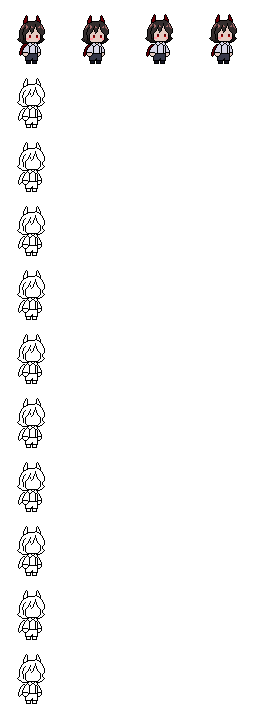
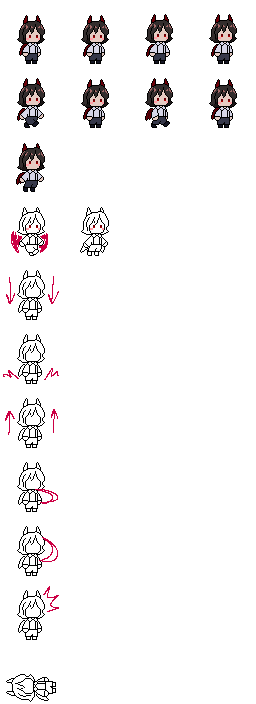
commit 5
Constants class becomes enum, more Player animations

diff --git a/src/entities/Player.java b/src/entities/Player.java
@@ -5,17 +5,27 @@ import java.awt.image.BufferedImage;
 
 import main.Game;
 import helper.ResourceLoader;
+import gamestates.Playing;
+import helper.Constants.PlayerState;
 import static main.Game.SCALE;
 import static collision.CollisionChecker.isSolid;
-import gamestates.Playing;
+import static helper.Constants.PlayerState.*;
 
 public class Player extends Entity {
 	private Playing playing;
 	private BufferedImage[][] sprites;
-	private String playerPng = ResourceLoader.PLAYER_SPRITES;
+	private final String playerPng = ResourceLoader.PLAYER_SPRITES;
+	private final int pngRow = 11;
+	private final int pngCol = 4;
+	private PlayerState playerAction;
+	private int aniTick;
+	private int aniIndex;
+	private final int aniSpeed = 15;
+	private boolean facingLeft = false;
+	
 	private static final int WIDTH = (int)(16*Game.SCALE);
 	private static final int HEIGHT = (int)(36*Game.SCALE);
-	private static final float OFFSET_X = 23 * Game.SCALE;
+	private static final float OFFSET_X = 24 * Game.SCALE;
 	private static final float OFFSET_Y = 27 * Game.SCALE;
 	
 	private boolean moving = false;
@@ -24,31 +34,99 @@ public class Player extends Entity {
 	private boolean up;
 	private boolean down;
 	private boolean jump;
-	private float playerSpeed = 1.5f * SCALE;
+	private final float playerSpeed = 1.5f * SCALE;
 	
 	private boolean inAir = false;
 	private int jumpCount = 0;
-	private int maxJump = 2;
+	private final int maxJump = 2;
 	private boolean climbable = false;
-	private float gravity = 0.05f * SCALE;
+	private final float gravity = 0.05f * SCALE;
 	private float airSpeed = 0f;
-	private float jumpSpeed = -2.3f * SCALE;
-	private float fallSpeed = 0.5f * SCALE;
+	private final float jumpSpeed = -2.3f * SCALE;
+	private final float fallSpeed = 0.5f * SCALE;
 
 	public Player(Playing playing, float x, float y) {
 		super(x, y, WIDTH, HEIGHT, OFFSET_X, OFFSET_Y);
 		this.playing = playing;
+		this.playerAction = IDLE;
 		loadAnimations();
+	}
+
+	private void loadAnimations() {
+		BufferedImage img = ResourceLoader.ImagesLoader(playerPng);
+
+		sprites = new BufferedImage[pngRow][pngCol];
+		for(int i = 0; i < pngRow; i++) {
+			for(int j = 0; j < pngCol; j++) {
+				sprites[i][j] = img.getSubimage(j*64, i*64, 64, 64);
+			}
+		}
+	}
+	
+	private void updateAnimationTick() {
+		aniTick++;
+		if (aniTick >= aniSpeed) {
+			aniTick = 0;
+
+			if (playerAction.isLooping()) {
+				aniIndex++;
+				if (aniIndex >= playerAction.getAnimationAmount()) {
+					aniIndex = 0;
+				}
+			} else {
+				if (aniIndex < playerAction.getAnimationAmount() - 1) {
+					aniIndex++;
+				}
+			}
+		}
+	}
+	
+	private void setAnimation(PlayerState newAction) {
+		if (this.playerAction.getId() != newAction.getId()) {
+			this.playerAction = newAction;
+			this.aniTick = 0;
+			this.aniIndex = 0;
+		}
+	}
+	
+	private void updatePlayerAction() {
+		if (inAir) {
+			if (airSpeed < 0) {
+				if (jumpCount < 2) {
+					setAnimation(JUMPING);
+				} else {
+					setAnimation(JUMPING2);
+				}
+			} else {
+				setAnimation(FALLING);
+			}
+		} else if (moving) {
+			setAnimation(RUNNING);
+		} else {
+			setAnimation(IDLE);
+		}
 	}
 
 	public void update() {
 		updatePosition();
 		updateHitbox();
+		updateAnimationTick();
+		updatePlayerAction();
 	}
 
 	public void draw(Graphics2D g2) {
-		g2.drawImage(sprites[0][0], (int)x, (int)y, (int)(64*SCALE), (int)(64*SCALE), null);
-		drawHitbox(g2);
+		int drawX = (int) x;
+		int drawY = (int) y;
+		int drawWidth = (int) (64 * SCALE);
+		int drawHeight = (int) (64 * SCALE);
+		if (facingLeft) {
+			g2.drawImage(sprites[playerAction.getId()][aniIndex], drawX+drawWidth, drawY,
+					-drawWidth, drawHeight, null);
+		} else {
+			g2.drawImage(sprites[playerAction.getId()][aniIndex], drawX, drawY,
+					drawWidth, drawHeight, null);
+		}
+//		drawHitbox(g2);
 	}
 
 	private void updatePosition() {
@@ -57,8 +135,14 @@ public class Player extends Entity {
 		float xSpeed = 0;
 		
 		if (jump) jump();
-		if (left) xSpeed -= playerSpeed;
-		if (right) xSpeed += playerSpeed;
+		if (left) {
+			xSpeed -= playerSpeed;
+			facingLeft = true;
+		}
+		if (right) {
+			xSpeed += playerSpeed;
+			facingLeft = false;
+		}
 		
 		if (!inAir) {
             if (!isSolid(hitbox, x, y + 1, playing.getCollisionData(), playing.getLevelWidth(), playing.getLevelHeight())) {
@@ -127,17 +211,6 @@ public class Player extends Entity {
 //			moving = true;
 //		}
 //	}
-
-	private void loadAnimations() {
-		BufferedImage img = ResourceLoader.ImagesLoader(playerPng);
-
-		sprites = new BufferedImage[4][4];
-		for(int i = 0; i < sprites.length; i++) {
-			for(int j = 0; j < sprites[i].length; j++) {
-				sprites[i][j] = img.getSubimage(j*64, i*64, 64, 64);
-			}
-		}
-	}
 
 	public void resetDirection() {
 		left = false;

diff --git a/src/helper/Constants.java b/src/helper/Constants.java
@@ -1,21 +1,65 @@
 package helper;
 
 public class Constants {
-	public static class PlayerActionID {
-		public static final int IDLE = 0;
-		public static final int RUNNING = 1;
-		public static final int JUMPING = 2;
-		public static final int JUMPING2 = 3;
-		public static final int FALLING = 4;
-		public static final int HIT_GROUND = 5;
-		public static final int CLIMBING = 6;
-		public static final int ATTACK = 7;
-		public static final int ATTACK_AIR = 8;
-		public static final int ATTACKED = 9;
-		public static final int DEATH = 10;
-		
-		public static int getAnimationAmount(int playerAction) {
-			return 1;
-		}
+	public interface EntityState {
+		int getId();
+		int getAnimationAmount();
 	}
+
+	public enum PlayerState implements EntityState {
+		IDLE(0, 4, true),
+		RUNNING(1, 4, true),
+		JUMPING(2, 1, false),
+		JUMPING2(3, 2, false),
+		FALLING(4, 1, false),
+		HIT_GROUND(5, 1, false),
+		CLIMBING(6, 1, false),
+		ATTACK(7, 1, false),
+		ATTACK_AIR(8, 1, false),
+		ATTACKED(9, 1, false),
+		DEATH(10, 1, false);
+
+		private final int id;
+		private final int animationAmount;
+		private final boolean looping;
+
+		PlayerState(int id, int animationAmount, boolean looping) {
+			this.id = id;
+			this.animationAmount = animationAmount;
+			this.looping = looping;
+		}
+
+		@Override
+		public int getId() { return id; }
+
+		@Override
+		public int getAnimationAmount() { return animationAmount; }
+		
+		public boolean isLooping() { return looping; }
+	}
+	
+//	public static class PlayerActionID {
+//		public static final int IDLE = 0;
+//		public static final int RUNNING = 1;
+//		public static final int JUMPING = 2;
+//		public static final int JUMPING2 = 3;
+//		public static final int FALLING = 4;
+//		public static final int HIT_GROUND = 5;
+//		public static final int CLIMBING = 6;
+//		public static final int ATTACK = 7;
+//		public static final int ATTACK_AIR = 8;
+//		public static final int ATTACKED = 9;
+//		public static final int DEATH = 10;
+//		
+//		public static int getAnimationAmount(int playerAction) {
+//			switch (playerAction) {
+//				case IDLE:
+//				case RUNNING:
+//					return 4;
+//				default: return 1;
+//			}
+//		}
+//	}
+	
+	
 }
